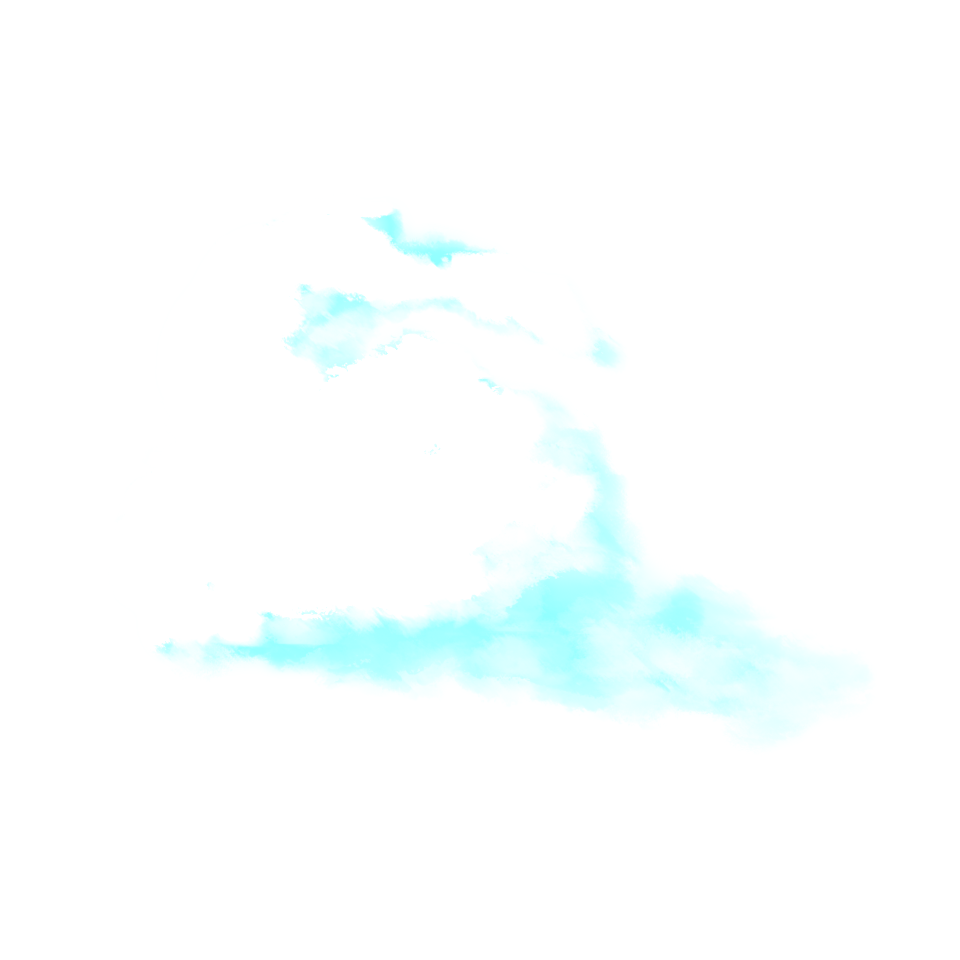
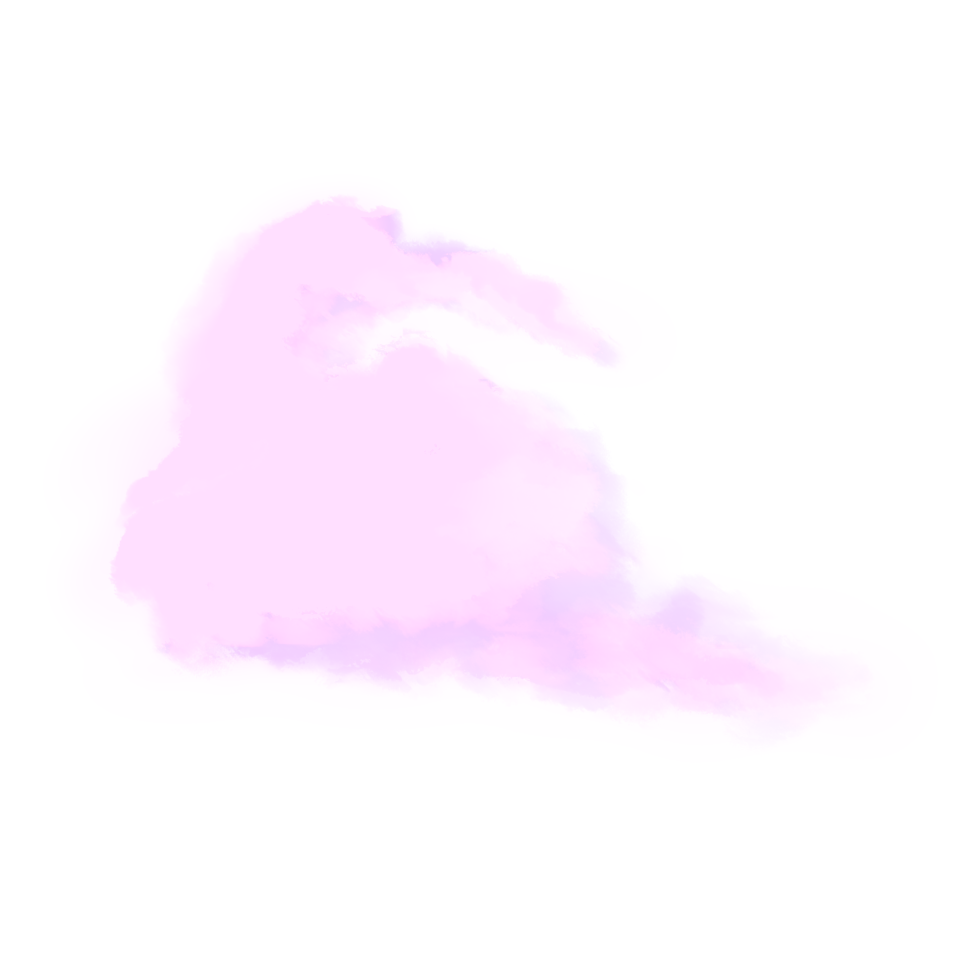
done

Changed region(s): [[0.0938, 0.1875, 0.8438, 0.75], [0.5938, 0.3438, 0.6562, 0.375]]

diff --git a/game.js b/game.js
@@ -3,6 +3,7 @@ class Game {
         console.log("game constructor");
         // background
         this.background = new Background();
+
         // player
         this.player = new Player();
         //display
@@ -11,8 +12,10 @@ class Game {
         this.rockets = [];
         //ufos
         this.ufos = [];
-        //
-        this.collectibles = [];
+        //slow motion collectible
+        this.slowMotions = [];
+        //speed booster collectible
+        this.speedBoosters = [];
     }
 
     preload() {
@@ -28,6 +31,7 @@ class Game {
     }
 
     draw() {
+      
       this.background.draw();
       this.player.draw();
       this.display.scoreDraw();
@@ -79,26 +83,20 @@ class Game {
           }
         } //   .bind(this)
       );
-      
-      //rising difficulty over time
-      if (frameCount % difficultyTime === 0) {
-        console.log('speed')
-        fastTime(); 
-      }
 
-      //collectible creation
-      if (frameCount > 50 && frameCount % collectibleFrequency == 0) {
+      //collectible 1 creation || SLOW TIME
+      if (frameCount > 50 && frameCount % collectibles.frequency.slowTimeFrequency == 0) {
         //push new obstacle to array
-        this.collectibles.push(new Collectible());
+        this.slowMotions.push(new SlowMotion());
       }
 
-      //make sure that collectible is removed, once collected
-      this.collectibles.forEach(
+      //make sure that collectible 1 is removed and effect kicks in, once collected
+      this.slowMotions.forEach(
         (collectible, index) => {
           collectible.draw();
           if (this.isCollision(collectible, this.player)) {
             slowTime();
-            this.collectibles.splice(index, 1);
+            this.slowMotions.splice(index, 1);
           }
         } //   .bind(this)
       );
@@ -107,7 +105,30 @@ class Game {
       if (isSlowTime === true) {
         this.display.slowTimeCounter();
       }
+
+      //collectible 2 || speed booster
+      if (frameCount > 50 && frameCount % collectibles.frequency.speedBoosterFrequency == 0) {
+        //push new obstacle to array
+        this.speedBoosters.push(new SpeedBooster());
+      }
+
+      //make sure that collectible 2 is removed and effect kicks in, once collected
+      this.speedBoosters.forEach(
+        (speedBooster, index) => {
+          speedBooster.draw();
+          if (this.isCollision(speedBooster, this.player)) {
+            increaseVelocity()
+            console.log('VELOCIIIITY');
+            this.speedBoosters.splice(index, 1);
+          }
+        } //   .bind(this)
+      );
       
+      //rising difficulty over time
+      if (frameCount % difficultyTime === 0) {
+        console.log('speed')
+        fastTime(); 
+      }
     }
     isCollision(rocket, player) {
       //x-axis collisions

diff --git a/effects.js b/effects.js
@@ -11,27 +11,29 @@ function fastTime() {
 
 function slowTime() {
     isSlowTime = true;
-    timerDisplay(slowTimeInterval);
+
+    timerDisplay(collectibles.duration.slowTimeDuration);
+
     let xAxisObstacles = obstacles.speed.xAxis
     for (let xSpeed in xAxisObstacles){
-      xAxisObstacles[xSpeed] *=  bonusFactor;
+      xAxisObstacles[xSpeed] *=  collectibles.factor.slowTimeFactor;
     }
 
     let yAxisObstacles = obstacles.speed.yAxis
     for (let ySpeed in yAxisObstacles){
-      yAxisObstacles[ySpeed] *=  bonusFactor;
+      yAxisObstacles[ySpeed] *=  collectibles.factor.slowTimeFactor;
     }
 
     const intervalId = setInterval(function() {
         for (let xSpeed in xAxisObstacles){
-            xAxisObstacles[xSpeed] /=  bonusFactor;
+            xAxisObstacles[xSpeed] /=  collectibles.factor.slowTimeFactor;
         };
         for (let ySpeed in yAxisObstacles){
-            yAxisObstacles[ySpeed] /=  bonusFactor;
+            yAxisObstacles[ySpeed] /=  collectibles.factor.slowTimeFactor;
         };
         isSlowTime = false;
         clearInterval(intervalId);
-    }, slowTimeInterval);
+    }, collectibles.duration.slowTimeDuration);
 }
 
 function timerDisplay(interval) {
@@ -45,3 +47,22 @@ function timerDisplay(interval) {
     }, 1000);
 }
 
+//TODO
+function increaseVelocity() {
+    isSpeedBoost = true;
+    timerDisplay(collectibles.duration.speedBoosterDuration);
+
+    let xAxisSpeedBooster = obstacles.speed.xAxis
+    for (let xSpeed in xAxisSpeedBooster){
+        xAxisSpeedBooster[xSpeed] *=  collectibles.factor.speedBoosterFactor;
+    }
+
+    const intervalId = setInterval(function() {
+        for (let xSpeed in xAxisSpeedBooster){
+            xAxisSpeedBooster[xSpeed] /=  collectibles.factor.speedBoosterFactor;
+        };
+        isSpeedBoost = false;
+        clearInterval(intervalId);
+    }, collectibles.duration.speedBoosterDuration);
+
+}

diff --git a/background.js b/background.js
@@ -1,12 +1,17 @@
 class Background {
     constructor() {
-        this.xClouds = 0;
         this.xSky = 0;
+        this.xCloud0 = 0;//Math.random() * WIDTH;
+        this.yCloud0 = HEIGHT;//Math.random() * HEIGHT;
+        //this.xCloud1 = 0;
+        //this.xCloud2 = 0;
     }
 
     preload() {
         this.bgSky = loadImage("assets/bg-sky.png");
-        this.bgClouds = loadImage("assets/cloud1.png");
+        this.bgCloud0 = loadImage("assets/brightred.png");
+        //this.bgCloud1 = loadImage("assets/cloud0.png");
+        //this.bgCloud2 = loadImage("assets/greenish.png");
     }
 
     draw() {
@@ -20,15 +25,27 @@ class Background {
         if(this.xSky <= -width) {
             this.xSky = 0;
         }
+        
+        //background cloud0
+        this.xCloud0 -= background.cloud0Speed;
 
-        //background clouds
-        this.xClouds -= background.cloud1Speed;
+        image(this.bgCloud0, this.xCloud0, this.yCloud0 - 0.3 * height, WIDTH, 0.7*HEIGHT); // width comes from p5
+        image(this.bgCloud0, this.xCloud0 + width, this.yCloud0 - 0.3 * height, WIDTH, 0.7*HEIGHT);
 
-        image(this.bgClouds, this.xClouds, 0, WIDTH, HEIGHT); // width comes from p5
-        image(this.bgClouds, this.xClouds + width, 0, WIDTH, HEIGHT);
-
-        if (this.xClouds <= -width) {
-            this.xClouds = 0;
+        if (this.xCloud0 <= - width) {
+            this.xCloud0 = 0;
         }
+        /*
+        //background cloud1
+        this.xCloud1 -= background.cloud1Speed;
+
+        image(this.bgCloud1, this.xCloud1, 0, WIDTH, HEIGHT); // width comes from p5
+        image(this.bgCloud1, this.xCloud1 + width, 0, WIDTH, HEIGHT);
+
+        if (this.xCloud0 <= -width) {
+            this.xCloud0 = 0;
+        }
+        */
+    }   
     }
-}
+

diff --git a/constants.js b/constants.js
@@ -1,6 +1,6 @@
 //canvas
-const WIDTH = 1400;//900;
-const HEIGHT = 700;//540;
+const WIDTH = 900;
+const HEIGHT = 540;
 
 //obstacles
 let obstacles = {
@@ -14,7 +14,7 @@ let obstacles = {
         }
     },
     frequency: {
-        rocketFrequency: 120,
+        rocketFrequency: 400,
         ufoFrequency: 400
     },
     buffer: 1.1
@@ -23,7 +23,8 @@ let obstacles = {
 //background
 let background = {
     skySpeed: 1,
-    cloud1Speed: 2
+    cloud0Speed: 2,
+    cloud1Speed: 3
 }
 
 
@@ -47,9 +48,31 @@ let obstacleBuffer = 1.1;
 //rise difficulty
 let difficultyTime = 200;
 let difficultyFactor = 1.1;
-
+/*
 //collectible stats
 let collectibleFrequency = 400;
 let collectibleSpeed = background.cloud1Speed;
 const slowTimeInterval = 5000;
 let bonusFactor = 0.5;
+*/
+//collectibles
+let collectibles = {
+    speed: {
+        xAxis: {
+            slowTimeX: 2,
+            speedBoosterX: 2
+        }
+    },
+    frequency: {
+        slowTimeFrequency: 500,
+        speedBoosterFrequency: 500
+    },
+    duration: {
+        slowTimeDuration: 5000,  //ms
+        speedBoosterDuration: 8000
+    },
+    factor: {
+        slowTimeFactor: 0.5,
+        speedBoosterFactor: 10
+    }
+};

diff --git a/collectibles.js b/collectibles.js
@@ -1,4 +1,4 @@
-class Collectible {
+class SlowMotion {
 
     constructor() {
         this.y = random(0, height);
@@ -9,6 +9,22 @@ class Collectible {
 
     draw() {
         rect(this.x, this.y, this.width, this.height);
-        this.x -= collectibleSpeed;
+        this.x -= collectibles.speed.xAxis.slowTimeX;
+    }
+}
+
+class SpeedBooster {
+
+    constructor() {
+        this.y = random(0, height);
+        this.x = width;
+        this.height = 50;
+        this.width = 50;
+    }
+
+    draw() {
+        fill('yellow');
+        rect(this.x, this.y, this.width, this.height);
+        this.x -= 2 * collectibles.speed.xAxis.speedBoosterX;
     }
 }

diff --git a/index.html b/index.html
@@ -12,6 +12,7 @@
     <h1>Project 1</h1>
     <!--<script src="obstacle.js"></script>-->
     <script src="constants.js"></script>
+    <script src="helpers.js"></script>
     <script src="player.js"></script>
     <script src="effects.js"></script>
     <script src="collectibles.js"></script>

diff --git a/player.js b/player.js
@@ -14,8 +14,8 @@ class Player {
 
     setup() {
         this.y = HEIGHT - 320;
-        this.width = this.img1.width / 8;
-        this.height = this.img1.height / 8;
+        this.width = this.img1.width / 9;
+        this.height = this.img1.height / 9;
     }
 
     draw() {

diff --git a/helpers.js b/helpers.js
@@ -1,0 +1,5 @@
+
+//get random integger between two integers
+function getRndInteger(min, max) {
+    return Math.floor(Math.random() * (max - min + 1) ) + min;
+};

diff --git a/main.js b/main.js
@@ -1,6 +1,7 @@
 let font;
 let button;
 let isSlowTime;
+let isSpeedBoost;
 let displayText;
 
 function preload() {
